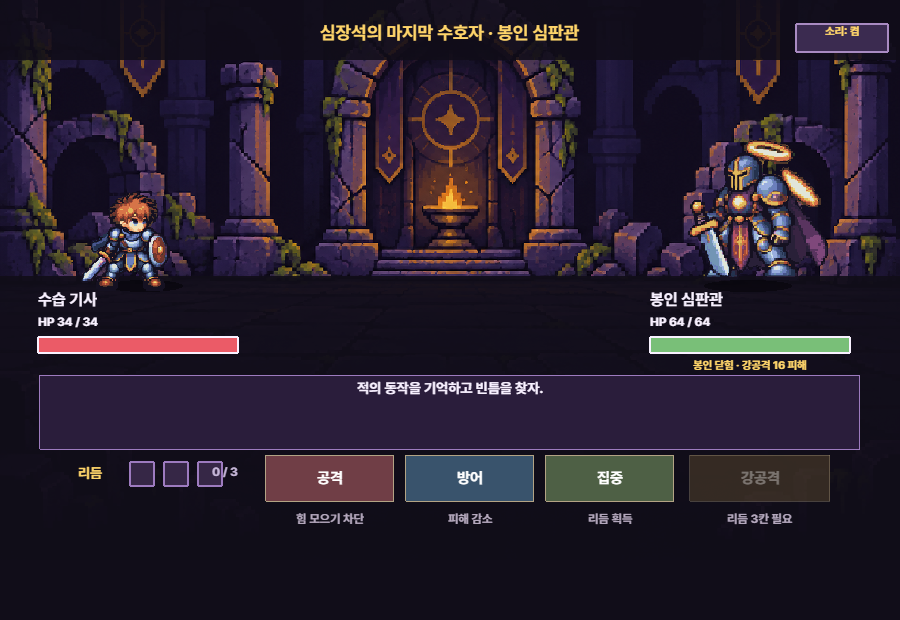
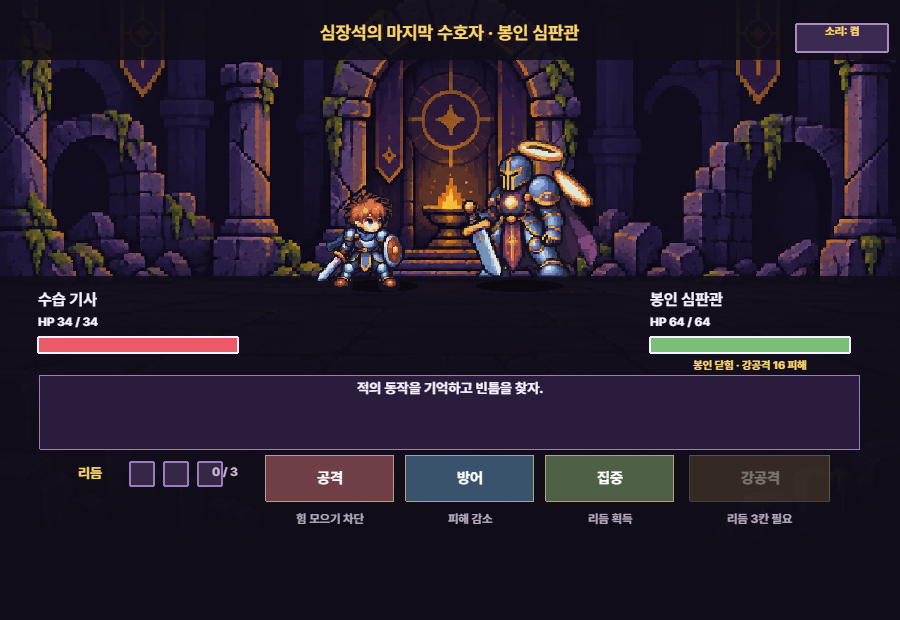
Stage close combat and verify visible weapon contact

diff --git a/game.js b/game.js
@@ -102,7 +102,7 @@ const ENEMY_PRESETS = {
     logName: '고블린 정찰병',
     maxHp: 40,
     // 원본 고블린은 왼쪽을 향한다. 오른쪽에 배치하므로 뒤집지 않아야 기사와 마주 본다.
-    sprite: { texture: 'goblin-combat-sheet', frame: 'idle-0', x: 755, y: 286, scale: 164, flipX: false },
+    sprite: { texture: 'goblin-combat-sheet', frame: 'idle-0', x: 520, y: 286, scale: 164, flipX: false },
     combatSheet: true, combatAnimKey: 'goblin',
     // 튜토리얼은 화면에 순서를 노출하지 않는 공격→방어 고정 반복이다.
     intentSequence: ['attack', 'defend'],
@@ -113,7 +113,7 @@ const ENEMY_PRESETS = {
     displayName: '해골 성소지기',
     logName: '해골 성소지기',
     maxHp: 48,
-    sprite: { texture: 'skeleton-combat-sheet', frame: 'idle-0', x: 760, y: 286, scale: 164, flipX: false },
+    sprite: { texture: 'skeleton-combat-sheet', frame: 'idle-0', x: 520, y: 286, scale: 164, flipX: false },
     combatSheet: true, combatAnimKey: 'skeleton',
     intentSequence: ['attack', 'attack', 'defend'],
     encounterLabel: '해골 성소지기와 조우했다',
@@ -123,7 +123,7 @@ const ENEMY_PRESETS = {
     displayName: '코볼트 주술사',
     logName: '코볼트 주술사',
     maxHp: 52,
-    sprite: { texture: 'kobold-shaman-combat-sheet', frame: 'idle-0', x: 758, y: 286, scale: 164, flipX: false },
+    sprite: { texture: 'kobold-shaman-combat-sheet', frame: 'idle-0', x: 520, y: 286, scale: 164, flipX: false },
     combatSheet: true, combatAnimKey: 'kobold',
     // 세 번째 성공한 힘 모으기 뒤의 공격 칸만 강공격으로 바뀐다.
     intentSequence: ['defend', 'charge', 'attack'],
@@ -134,7 +134,7 @@ const ENEMY_PRESETS = {
     displayName: '오크 파수꾼',
     logName: '오크 파수꾼',
     maxHp: 56,
-    sprite: { texture: 'orc-sentinel-combat-sheet', frame: 'idle-0', x: 758, y: 286, scale: 178, flipX: false },
+    sprite: { texture: 'orc-sentinel-combat-sheet', frame: 'idle-0', x: 520, y: 286, scale: 178, flipX: false },
     combatSheet: true, combatAnimKey: 'orc',
     // 공격 칸은 적 리듬이 3일 때만 강공격으로 바뀐다.
     intentSequence: ['attack', 'defend', 'attack', 'charge'],
@@ -145,7 +145,7 @@ const ENEMY_PRESETS = {
     displayName: '봉인 심판관',
     logName: '봉인 심판관',
     maxHp: 64,
-    sprite: { texture: 'seal-arbiter-combat-sheet', frame: 'idle-0', x: 748, y: 286, scale: 210, flipX: false },
+    sprite: { texture: 'seal-arbiter-combat-sheet', frame: 'idle-0', x: 520, y: 286, scale: 210, flipX: false },
     combatSheet: true, combatAnimKey: 'arbiter',
     // 보스는 intentSequence 순환을 쓰지 않는다. 묶음은 BattleScene이 HP·플레이어 리듬에서 선택한다.
     intentSequence: ['defend', 'attack', 'charge'],
@@ -407,6 +407,11 @@ class BattleScene extends Phaser.Scene {
     }
   }
 
+  update() {
+    if (this.playerFigure?.active) this.playerShadow?.setX(this.playerFigure.x);
+    if (this.enemyFigure?.active) this.enemyShadow?.setX(this.enemyFigure.x);
+  }
+
   text(x, y, value, size = 14, color = '#f8f1ff', align = 'left') {
     return this.add.text(x, y, value, { fontFamily: UI_FONT, fontSize: `${size}px`, fontStyle: 'bold', color, align, lineSpacing: 6 }).setOrigin(align === 'center' ? .5 : 0, 0);
   }
@@ -530,10 +535,10 @@ class BattleScene extends Phaser.Scene {
     this.playerHpText = this.text(38, 315, '', 12); this.enemyHpText = this.text(650, 315, '', 12);
     this.playerBar = this.add.rectangle(138, 345, 200, 16, this.colors.hp).setStrokeStyle(2, 0xf8f1ff); this.enemyBar = this.add.rectangle(750, 345, 200, 16, this.colors.green).setStrokeStyle(2, 0xf8f1ff);
     this.hpBarTweens = { player: null, enemy: null };
-    this.add.ellipse(145, 286, 76, 12, 0x050409, .6);
-    this.add.ellipse(this.enemyConfig.sprite.x, 286, 88, 12, 0x050409, .6);
+    this.playerShadow = this.add.ellipse(380, 286, 76, 12, 0x050409, .6);
+    this.enemyShadow = this.add.ellipse(520, 286, 88, 12, 0x050409, .6);
     // 전투 시트 원본은 오른쪽을 향한다. 좌측의 기사는 뒤집지 않고 오른쪽 적을 향한다.
-    this.playerFigure = this.add.sprite(145, 225, 'novice-combat-sheet', 'idle-0').setScale(164 / 280).setFlipX(false).play('novice-idle').setFlipX(false);
+    this.playerFigure = this.add.sprite(380, 225, 'novice-combat-sheet', 'idle-0').setScale(164 / 280).setFlipX(false).play('novice-idle').setFlipX(false);
     this.enemyFigure = null;
     this.sealText = this.text(750, 359, '', 11, '#ffd56a', 'center');
     this.phaseText = this.text(450, 170, '', 12, '#ffd56a', 'center');
@@ -587,6 +592,8 @@ class BattleScene extends Phaser.Scene {
   }
 
   resetBattle() {
+    this.cancelStrikeMotion('player');
+    this.cancelStrikeMotion('enemy');
     audio.stopAll();
     this.clearVictoryTransition();
     if (this.actionUnlockTimer) this.actionUnlockTimer.remove(false);
@@ -620,7 +627,7 @@ class BattleScene extends Phaser.Scene {
     if (enemy.boss) this.selectBossBundle();
     this.phaseText.setText('');
     if (this.sealRune) this.sealRune.destroy();
-    this.sealRune = enemy.boss ? pixelSprite(this, 748, 200, 'shrine-kit', 'rune', 120, .5).setVisible(false) : null;
+    this.sealRune = enemy.boss ? pixelSprite(this, 520, 200, 'shrine-kit', 'rune', 120, .5).setVisible(false) : null;
     this.restartButton.container.setVisible(false); Object.entries(this.buttons).forEach(([key, b]) => { if (key !== 'restart') b.container.setVisible(true); });
     this.setPlayerPose('idle', true);
     this.log = this.isTutorial() ? '고블린은 공격 → 방어를 반복한다. 첫 공격에 대비하자.' : '적의 동작을 기억하고 빈틈을 찾자.'; this.render(true);
@@ -753,12 +760,30 @@ class BattleScene extends Phaser.Scene {
     delete this.strikeMotions[side];
   }
 
+  weaponFrontOffset(figure, frameName, rightFacing) {
+    const cacheKey = `${figure.texture.key}/${frameName}/${rightFacing}`;
+    this.weaponFrontCache ||= new Map();
+    let front = this.weaponFrontCache.get(cacheKey);
+    if (front === undefined) {
+      const frame = figure.texture.get(frameName);
+      const source = figure.texture.getSourceImage();
+      const pixels = source.getContext('2d').getImageData(frame.cutX, frame.cutY, 280, 280).data;
+      front = rightFacing ? 0 : 279;
+      for (let y = 8; y < 272; y++) for (let x = 8; x < 272; x++) {
+        if (pixels[(y * 280 + x) * 4 + 3] < 192) continue;
+        front = rightFacing ? Math.max(front, x) : Math.min(front, x);
+      }
+      this.weaponFrontCache.set(cacheKey, front);
+    }
+    return (front - figure.displayOriginX) * figure.scaleX;
+  }
+
   strikeImpact(side) {
     const motion = this.strikeMotions?.[side];
     if (!motion || motion.hit) return;
     motion.hit = true;
     motion.tween?.stop();
-    motion.figure.setX(motion.homeX + (side === 'player' ? 1 : -1) * (motion.heavy ? 40 : 28));
+    motion.figure.setX(motion.targetX);
     motion.figure.setFrame(`${motion.pose}-${motion.contact}`);
     motion.phase = 'impact';
     const hold = motion.heavy ? 180 : 120;
@@ -780,7 +805,11 @@ class BattleScene extends Phaser.Scene {
     const sign = side === 'player' ? 1 : -1;
     const pose = emphatic ? 'heavy' : 'attack';
     const contact = emphatic || (side === 'enemy' && ['orc', 'kobold'].includes(this.enemyConfig.id)) ? 2 : 1;
-    const motion = { figure, pose, contact, heavy: emphatic, homeX: figure.x, timers: [], phase: 'anticipation', hit: false };
+    const defender = side === 'player' ? this.enemyFigure : this.playerFigure;
+    const contactX = defender.x - sign * 10;
+    const tipOffset = this.weaponFrontOffset(figure, `${pose}-${contact}`, side === 'player');
+    const targetX = contactX - tipOffset;
+    const motion = { figure, pose, contact, targetX, contactX, tipOffset, heavy: emphatic, homeX: figure.x, timers: [], phase: 'anticipation', hit: false };
     (this.strikeMotions ||= {})[side] = motion;
     figure.anims.pause();
     figure.setFrame(`${pose}-0`);
@@ -789,7 +818,7 @@ class BattleScene extends Phaser.Scene {
       if (!figure.active) return;
       motion.phase = 'swing';
       if (contact === 2) figure.setFrame(`${pose}-1`);
-      motion.tween = this.tweens.add({ targets: figure, x: motion.homeX + sign * (emphatic ? 40 : 28), duration: 100, ease: 'Cubic.In' });
+      motion.tween = this.tweens.add({ targets: figure, x: motion.targetX, duration: 100, ease: 'Cubic.In' });
     }));
     // 피해 처리와 같은 시점에 접촉 프레임을 확정하고, 이후에만 복귀한다.
     motion.timers.push(this.time.delayedCall(impactDelay + (emphatic ? 390 : 330), () => {
@@ -1063,7 +1092,7 @@ class BattleScene extends Phaser.Scene {
     if (outcome.rhythmGain) {
       this.rhythm = Math.min(3, this.rhythm + outcome.rhythmGain);
       this.playEffect('rhythm', 185, 432, outcome.rhythmGain === 2 ? 98 : 76, outcome.rhythmGain === 2);
-      this.showFloatingText(145, 158, `리듬 +${outcome.rhythmGain}`, '#ffd56a', outcome.rhythmGain === 2);
+      this.showFloatingText(this.playerFigure.x, 158, `리듬 +${outcome.rhythmGain}`, '#ffd56a', outcome.rhythmGain === 2);
       this.pulseRhythm(outcome.rhythmGain === 2);
       audio.play('rhythm');
     }
@@ -1276,7 +1305,7 @@ class BattleScene extends Phaser.Scene {
     }
     at(endTime, () => {
       this.rhythm = Math.min(3, this.rhythm + gain);
-      if (gain) { this.showFloatingText(145, 158, `리듬 +${gain}`, '#ffd56a', gain === 2); this.pulseRhythm(gain === 2); audio.play('rhythm'); }
+      if (gain) { this.showFloatingText(this.playerFigure.x, 158, `리듬 +${gain}`, '#ffd56a', gain === 2); this.pulseRhythm(gain === 2); audio.play('rhythm'); }
       if (enemy.key === 'charge' && !interrupted) {
         this.enemyRhythm = Math.min(3, this.enemyRhythm + 1);
         lines.push('심판관이 힘을 모았다.');
